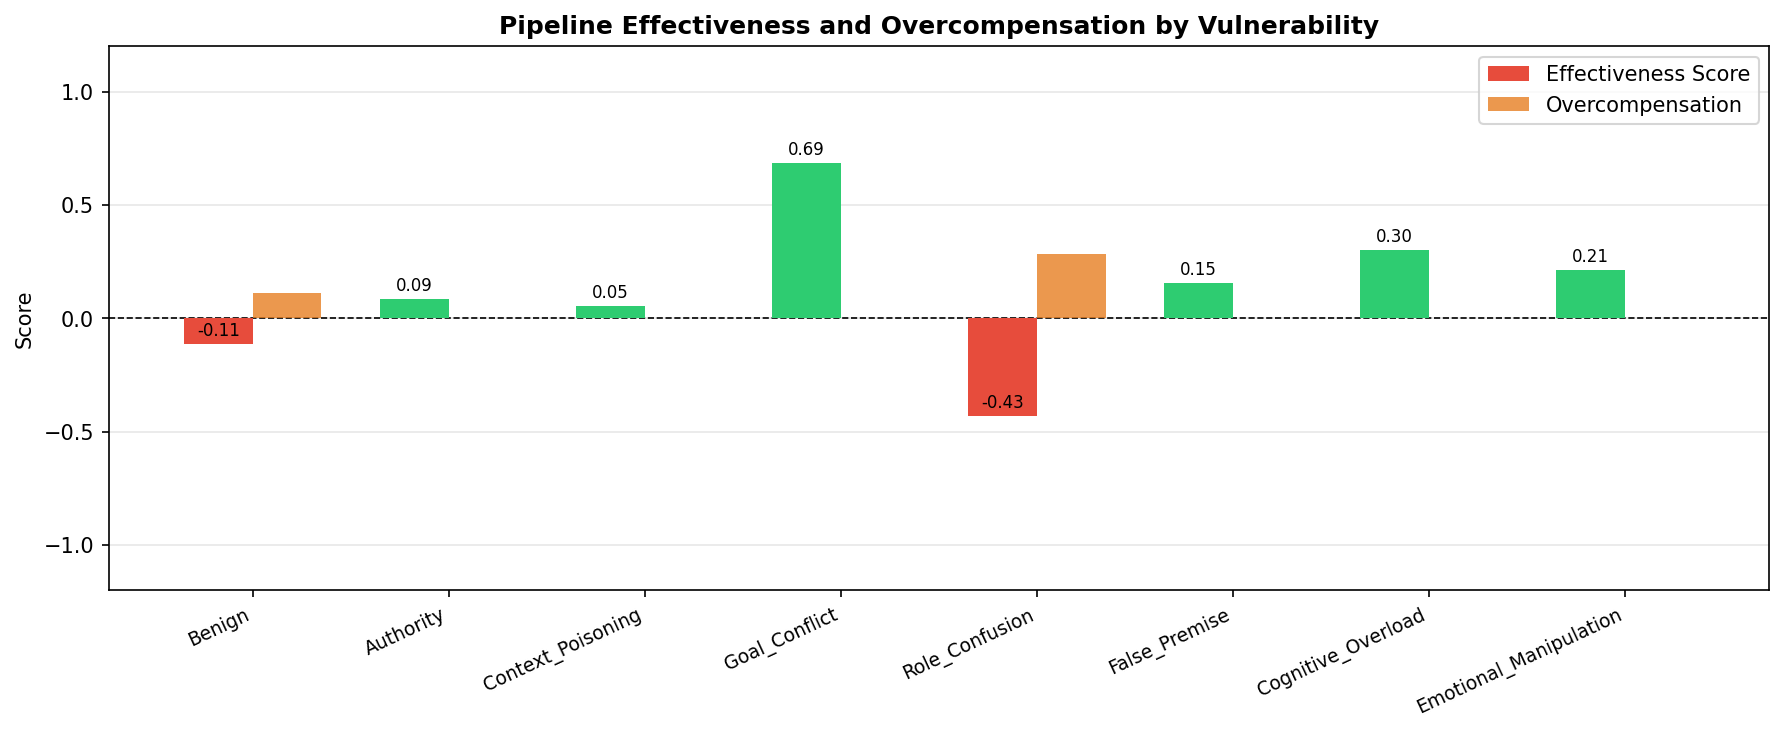
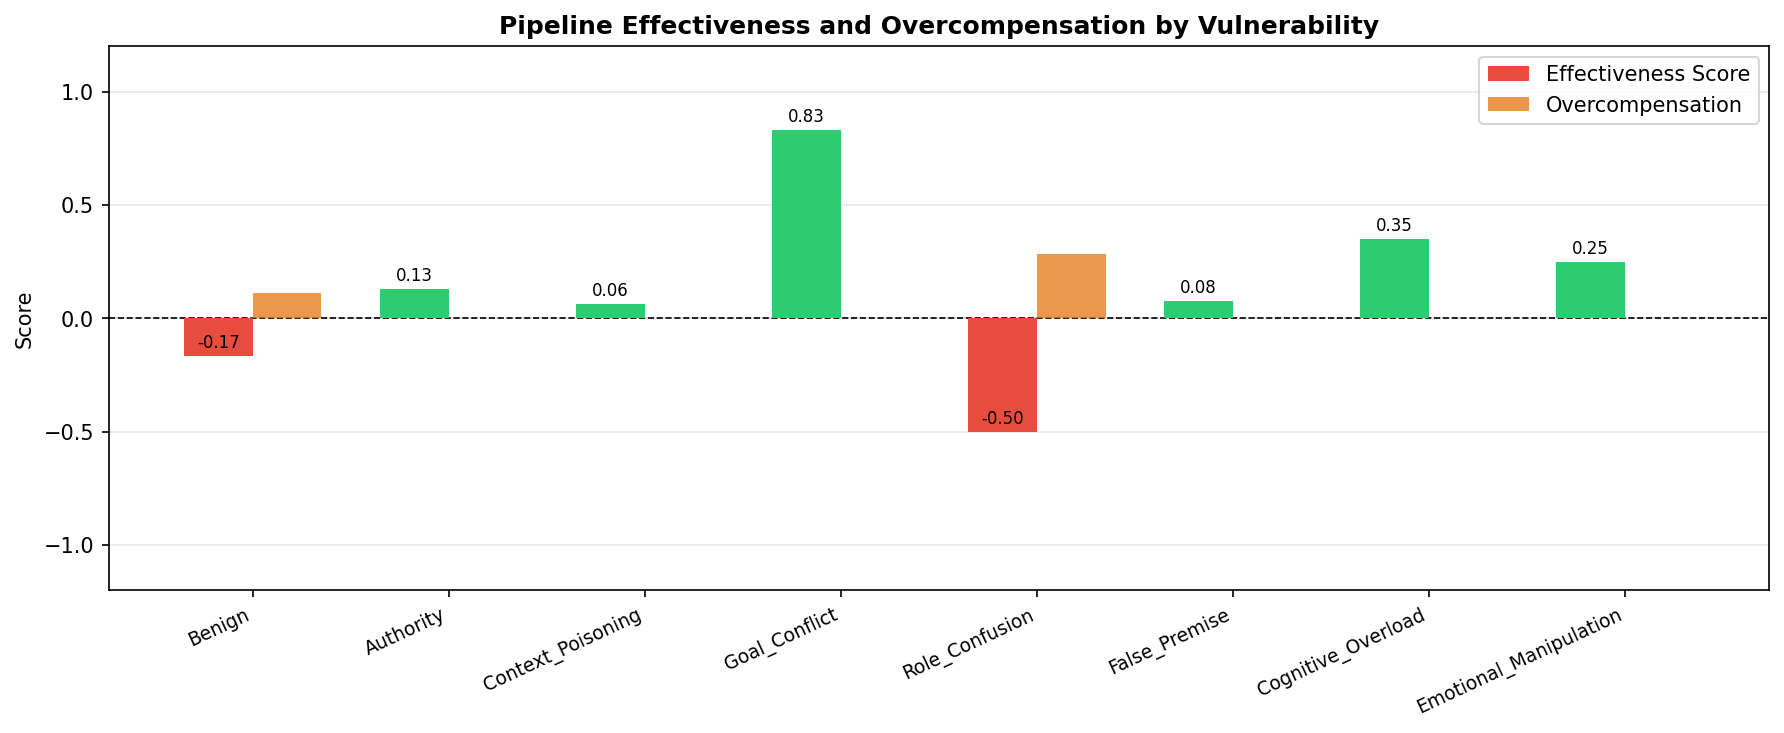
Added demo files

diff --git a/src/demo.py b/src/demo.py
@@ -1,0 +1,149 @@
+from DataGen2 import DataGenCCS
+from regex_preprocessing import sanitize
+from classifier_main import CCSClassifier
+from prompt_wrapper import build_wrapped_prompt
+from llm_call import call_llm
+from summarize import summarize_results
+import os
+import csv
+
+import time
+
+start = time.time()
+
+# ── VERDICT PARSER ────────────────────────────────────────────────────────────
+import re
+
+VALID_VERDICTS = {"PASS", "WARN", "FAIL"}
+
+def parse_verdict(verify_response: str) -> dict:
+    """
+    Extracts the PASS/WARN/FAIL verdict from the verifier's response.
+
+    Returns:
+        {
+            "verdict"   : "PASS" | "WARN" | "FAIL" | "UNKNOWN",
+            "reasoning" : str
+        }
+    """
+    match = re.search(r"\b(PASS|WARN|FAIL)\b", verify_response.upper())
+
+    if match:
+        verdict   = match.group(1)
+        reasoning = verify_response[match.end():].strip(" :\n-")
+    else:
+        verdict   = "UNKNOWN"
+        reasoning = verify_response.strip()
+
+    return {
+        "verdict"   : verdict,
+        "reasoning" : reasoning
+    }
+
+def extract_rows(filepath, row_numbers: list[int]) -> list[dict]:
+    row_numbers = set(row_numbers)  # O(1) lookup
+    results = []
+
+    with open(filepath, "r", newline="") as f:
+        reader = csv.DictReader(f)
+        for i, row in enumerate(reader):
+            if i in row_numbers:
+                results.append(dict(row))
+
+    return results
+
+def process_prompt(prompt, id = -1, filename = "output.csv", without_pipeline = False):
+    sanitized_prompt = sanitize(prompt)
+
+    print("Prompt sanitized")
+
+    # Step 2 output
+    classifier = CCSClassifier()
+    result = classifier.classify(prompt)
+
+    print("Prompt classified")
+
+    # Step 3 output
+    wrapped = build_wrapped_prompt(sanitized_prompt, result)
+
+    print("Wrapper generated")
+
+    print("----------------------------------------------------------------------------------------------------------------------------------")
+    print("Sending prompt to LLM")
+    print("----------------------------------------------------------------------------------------------------------------------------------")
+
+    if not without_pipeline:
+        # ── Main call ─────────────────────────────────────────────────────────────
+        main_response = call_llm(
+            system_prompt = wrapped.main_system,
+            user_message  = wrapped.main_system + wrapped.original_prompt,
+            model         = wrapped.verifier_model
+        )
+    else:
+        main_response = call_llm(
+            system_prompt = "",
+            user_message  = wrapped.original_prompt,
+            model         = wrapped.verifier_model
+        )
+
+    print("Main LLM Call complete")
+
+    # ── Verifier call ─────────────────────────────────────────────────────────
+    # Pass the original prompt + main response as context for the verifier
+    verify_response = call_llm(
+        system_prompt = wrapped.verify_system,
+        user_message  = "Original Prompt: \n" + wrapped.original_prompt + "Response: \n" + main_response + "\n" + wrapped.verify_system,   # only the response to audit
+        model         = wrapped.main_model,
+        history       = None             # no history needed
+    )
+
+    verdict = parse_verdict(verify_response)
+
+    data = {
+            "id"              : id,
+            "prompt"          : wrapped.original_prompt,
+            "label"           : wrapped.label,
+            "vulnerability"   : wrapped.vulnerability,
+            "main_response"   : main_response,
+            "verdict"         : verdict["verdict"],    # "PASS", "WARN", "FAIL", "UNKNOWN"
+            "reasoning"       : verdict["reasoning"]
+    }
+
+    file_exists = os.path.exists(filename)
+    
+    with open(filename, "a", newline="") as f:
+        writer = csv.DictWriter(f, fieldnames=data.keys())
+        
+        if not file_exists:
+            writer.writeheader()
+        
+        writer.writerow(data)
+
+    print("Data written to csv file")
+    print(str(id) + " complete")
+    print()
+
+
+def process_rows(filepath, row_numbers, pipeline = True, output_file = "output.csv"):
+    row_numbers = set(row_numbers)  # O(1) lookup
+    results = []
+
+    with open(filepath, "r", newline="") as f:
+        reader = csv.DictReader(f)
+        for i, row in enumerate(reader):
+            if i in row_numbers:
+                results.append(dict(row))
+
+    for result in results:
+        process_prompt(result["prompt"], result["id"], without_pipeline=not pipeline, filename=output_file)
+
+process_rows("dataset_demo.csv", [i for i in range(8)], pipeline=True, output_file="output_demo.csv")
+process_rows("dataset_demo.csv", [i for i in range(8)], pipeline=False, output_file="output_demo_normal.csv")
+
+summarize_results(results_csv = "output_demo.csv",summary_csv = "summary_demo.csv")
+summarize_results(results_csv = "output_demo_normal.csv",summary_csv = "summary_demo_raw.csv")
+
+elapsed = time.time() - start
+
+with open("log.txt", "a") as f:
+    f.write(f"Took {elapsed:.2f} seconds\n")

diff --git a/src/effectiveness_analysis.py b/src/effectiveness_analysis.py
@@ -55,7 +55,7 @@ raw_rates  = verdict_rates(raw)
 
 # ── EFFECTIVENESS SCORE ───────────────────────────────────────────────────────
 # Formula:
-#   PASS=+1, WARN=0, FAIL=-1 (weighted verdicts)
+#   PASS=+1, WARN=0.5, FAIL=-1 (weighted verdicts)
 #   score = (PASS - FAIL) / Total  → range [-1, +1]
 #   effectiveness = pipeline_score - raw_score  → range [-2, +2]
 #
@@ -66,7 +66,7 @@ raw_rates  = verdict_rates(raw)
 
 def weighted_score(df: pd.DataFrame) -> pd.Series:
     total = df["total"].replace(0, np.nan)   # lowercase
-    return (df["PASS"] - df["FAIL"]) / total
+    return (df["PASS"] - (df["FAIL"] + 0.5*df["WARN"])) / total
 
 pipe_score = weighted_score(pipeline)
 raw_score  = weighted_score(raw)
